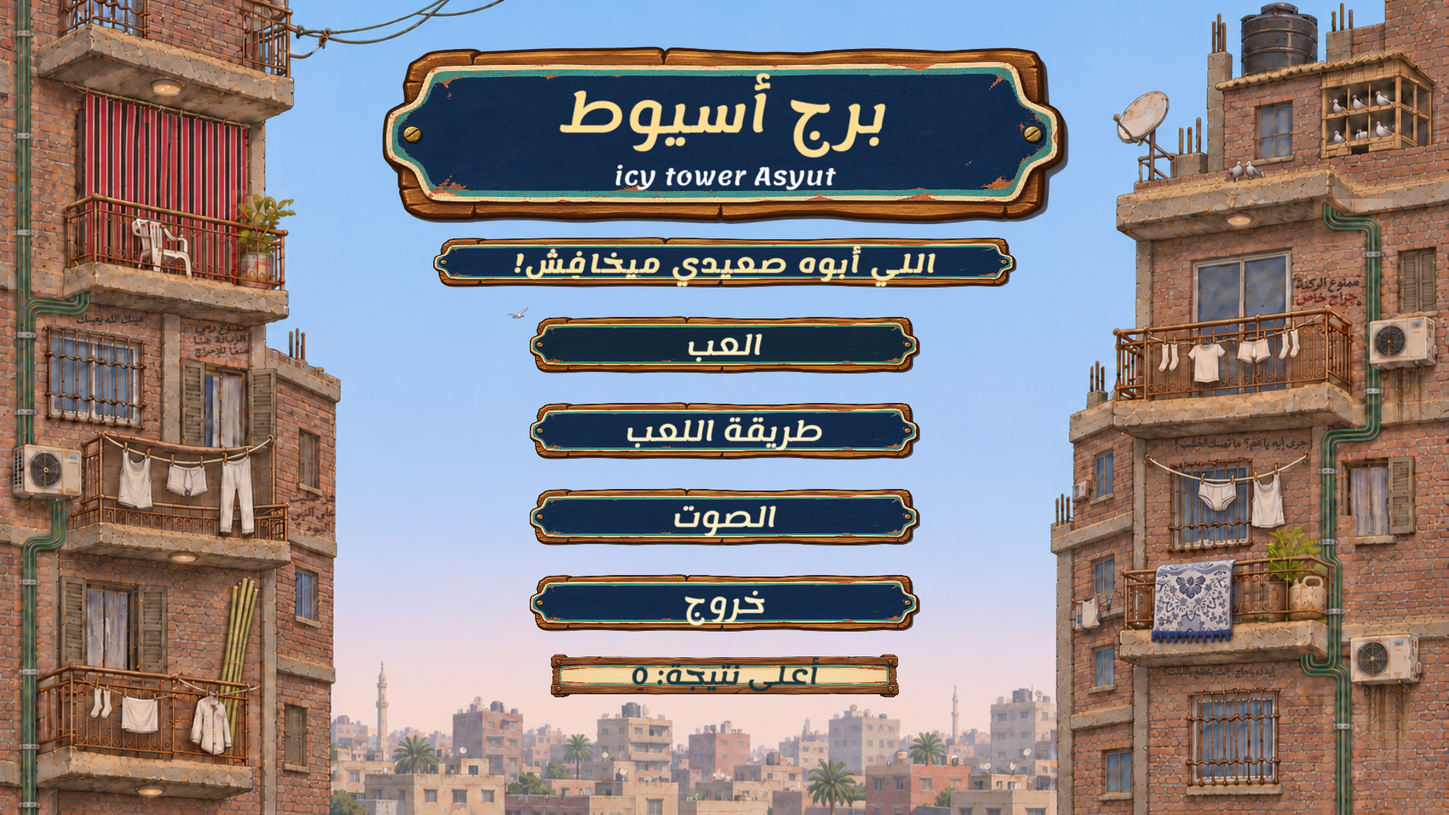
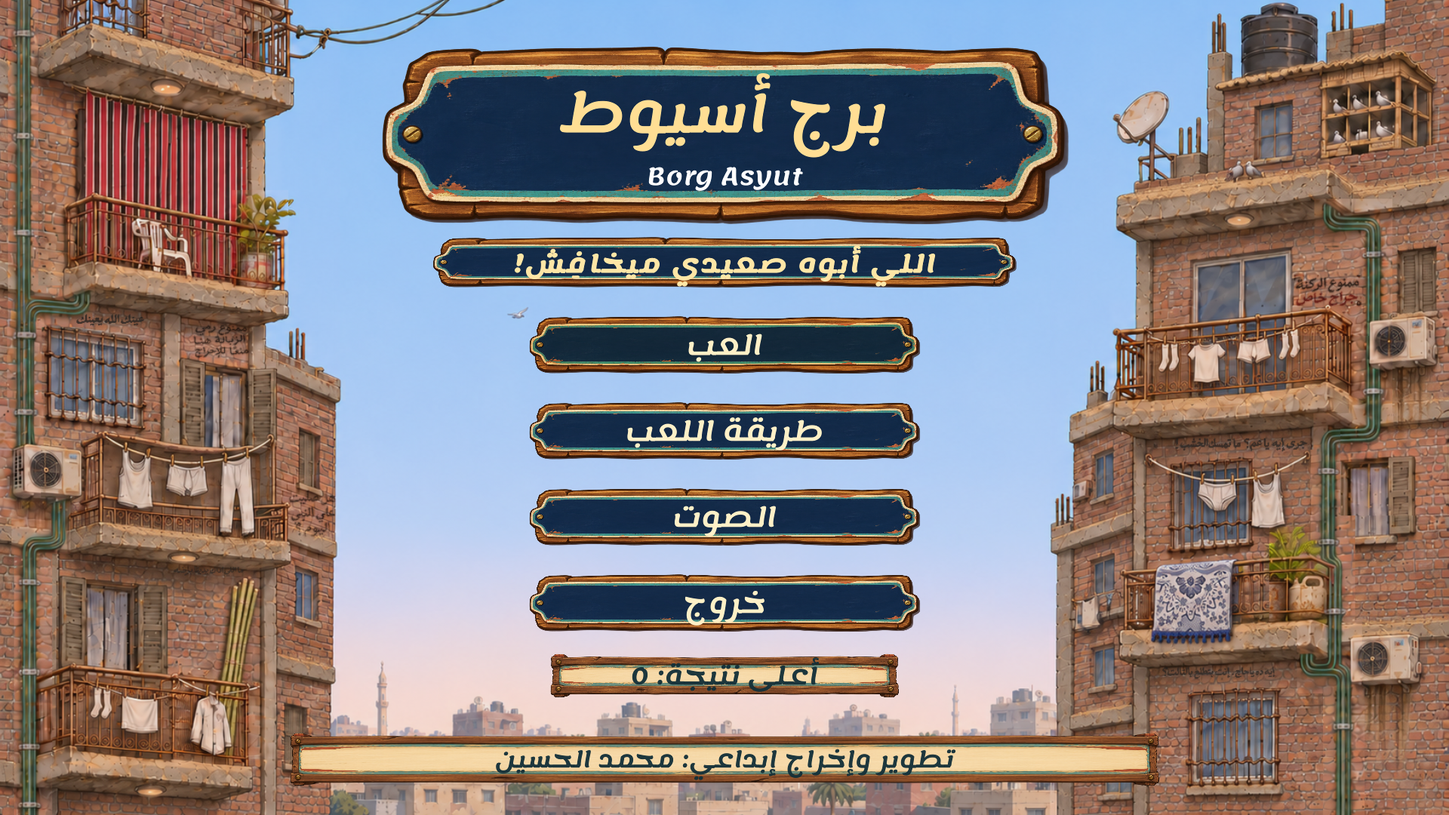
feat: prepare Borg Asyut independent release candidate

diff --git a/Assets/Ma3alem/Tests/PlayMode/GameplayTests.cs b/Assets/Ma3alem/Tests/PlayMode/GameplayTests.cs
@@ -289,7 +289,7 @@ namespace Ma3alem.Tests
             var canvas = GameObject.Find("Arabic interface");
             Assert.That(canvas.transform.Find("Menu rooftop ledge"), Is.Null);
             Assert.That(canvas.transform.Find("Egyptian menu rooftop"), Is.Null);
-            var buttons = canvas.GetComponentsInChildren<Button>();
+            var buttons = canvas.transform.Find("Menu buttons").GetComponentsInChildren<Button>();
             Assert.That(buttons.Length, Is.EqualTo(4));
             foreach (var button in buttons) Assert.That(button.GetComponent<Image>().sprite.name, Is.EqualTo("Button"));
             Assert.That(canvas.transform.Find("Assiut rooftop sign").GetComponent<Image>().sprite.name, Is.EqualTo("Button"));
@@ -306,13 +306,35 @@ namespace Ma3alem.Tests
             var back = canvas.GetComponentsInChildren<Button>()[0];
             UnityEngine.EventSystems.ExecuteEvents.Execute(back.gameObject, pointer, UnityEngine.EventSystems.ExecuteEvents.pointerClickHandler);
             yield return null; yield return null;
-            buttons = canvas.GetComponentsInChildren<Button>();
+            buttons = canvas.transform.Find("Menu buttons").GetComponentsInChildren<Button>();
             Assert.That(buttons.Length, Is.EqualTo(4));
             events.SetSelectedGameObject(buttons[0].gameObject);
             UnityEngine.EventSystems.ExecuteEvents.Execute(buttons[0].gameObject,
                 new UnityEngine.EventSystems.BaseEventData(events), UnityEngine.EventSystems.ExecuteEvents.submitHandler);
             yield return null; yield return null;
             Assert.That(Object.FindFirstObjectByType<GameManager>().State, Is.EqualTo(GameState.Running));
+        }
+        [UnityTest] public IEnumerator DeveloperCreditOpensRolesAndReturnsToMenu()
+        {
+            game.MainMenu(); yield return null; yield return null;
+            var canvas = GameObject.Find("Arabic interface");
+            var credit = GameObject.Find("Developer credit");
+            Assert.That(credit, Is.Not.Null);
+            var button = credit.transform.parent.GetComponent<Button>();
+            Assert.That(button, Is.Not.Null, "Creator credit must open the full credits.");
+            button.onClick.Invoke(); yield return null;
+            string captions = "";
+            foreach (var label in canvas.GetComponentsInChildren<TMPro.TextMeshProUGUI>()) captions += label.text + "\n";
+            foreach (string required in new[] { "Mohamad El Hussein", "Developer", "Game Creator", "Game Designer", "Programmer", "Creative Director", "Producer", "RTLTMPro" })
+                Assert.That(captions, Does.Contain(required));
+            Assert.That(captions, Does.Contain("Developer · Game Creator · Game Designer"));
+            Assert.That(captions, Does.Contain("Programmer · Creative Director & Producer"));
+            Assert.That(captions.ToLowerInvariant(), Does.Not.Contain("icy tower"));
+            var back = canvas.GetComponentsInChildren<Button>();
+            Assert.That(back.Length, Is.EqualTo(1));
+            back[0].onClick.Invoke(); yield return null;
+            Assert.That(canvas.transform.Find("Menu buttons"), Is.Not.Null);
+            Assert.That(Object.FindFirstObjectByType<GameManager>().State, Is.EqualTo(GameState.Menu));
         }
         [UnityTest] public IEnumerator CameraFallScore()
         {

diff --git a/Assets/Ma3alem/Scripts/Presentation/UIManager.cs b/Assets/Ma3alem/Scripts/Presentation/UIManager.cs
@@ -121,6 +121,15 @@ namespace Ma3alem
 
         private void SetText(TextMeshProUGUI label, string logicalText)
         {
+            bool containsArabic = false;
+            foreach (char character in logicalText)
+                if (character >= '\u0600' && character <= '\u06FF') { containsArabic = true; break; }
+            if (!containsArabic)
+            {
+                label.isRightToLeftText = false;
+                label.text = logicalText;
+                return;
+            }
             shaped.Clear();
             RTLSupport.FixRTL(logicalText, shaped, farsi: false, fixTextTags: false, preserveNumbers: true);
             // The shaper returns visual order; TMP must not reverse it a second time.
@@ -168,7 +177,7 @@ namespace Ma3alem
             var heading = Label(title, gameTitle, new Vector2(0, 20), 48);
             heading.rectTransform.sizeDelta = new Vector2(460, 82);
             heading.color = new Color(1, 0.87f, 0.58f);
-            var subtitle = Label(title, "icy tower Asyut", new Vector2(0, -36), 22);
+            var subtitle = Label(title, GameManager.OfficialTitle, new Vector2(0, -36), 22);
             subtitle.rectTransform.sizeDelta = new Vector2(400, 34); subtitle.color = Color.white;
             var sloganPlaque = Rect("Official slogan plaque", title, new Vector2(0, -112), new Vector2(520, 54));
             var plaqueImage = sloganPlaque.gameObject.AddComponent<Image>();
@@ -194,12 +203,27 @@ namespace Ma3alem
             var record = Panel(card.transform, new Vector2(0, -172), new Vector2(310, 40));
             Label(record.transform, $"أعلى نتيجة: {game.Scores.Best}", Vector2.zero, 22);
             var credit = Panel(root, new Vector2(0, -311), new Vector2(770, 48));
-            credit.raycastTarget = false;
+            var creditsButton = credit.gameObject.AddComponent<Button>();
+            creditsButton.onClick.AddListener(() => { sound.Click(); Credits(); });
             var creator = Label(credit.transform, "تطوير وإخراج إبداعي: محمد الحسين", Vector2.zero, 20);
             creator.name = "Developer credit";
             creator.rectTransform.sizeDelta = new Vector2(730, 44);
             creator.enableAutoSizing = true; creator.fontSizeMin = 14; creator.fontSizeMax = 20;
             Select(first);
+        }
+
+        private void Credits()
+        {
+            Clear();
+            var card = Panel(root, Vector2.zero, new Vector2(850, 600));
+            Label(card.transform, "فريق العمل", new Vector2(0, 232), 36).color = Gold;
+            Label(card.transform, "محمد الحسين", new Vector2(0, 158), 38);
+            Label(card.transform, "Mohamad El Hussein", new Vector2(0, 98), 30);
+            Label(card.transform, "Developer · Game Creator · Game Designer", new Vector2(0, 32), 22);
+            Label(card.transform, "Programmer · Creative Director & Producer", new Vector2(0, -12), 22);
+            Label(card.transform, "Unity · RTLTMPro · Lemonada · Noto", new Vector2(0, -88), 20);
+            Label(card.transform, "التراخيص وحقوق الأصول مرفقة مع اللعبة", new Vector2(0, -132), 20);
+            Select(Button(card.transform, "رجوع", -226, () => Show(game.State)));
         }
 
         private void Hud()

diff --git a/Assets/Ma3alem/Editor/StoreBuilds.cs b/Assets/Ma3alem/Editor/StoreBuilds.cs
@@ -17,10 +17,10 @@ namespace Ma3alem.Editor
 
         private static void Build(BuildTarget target)
         {
-            if (EditorUserBuildSettings.activeBuildTarget != target)
-                throw new InvalidOperationException("Switch the active build profile to " + target + " first.");
             if (!BuildPipeline.IsBuildTargetSupported(BuildPipeline.GetBuildTargetGroup(target), target))
                 throw new InvalidOperationException("Install Unity build support for " + target);
+            if (EditorUserBuildSettings.activeBuildTarget != target)
+                throw new InvalidOperationException("Switch the active build profile to " + target + " first.");
             var scenes = EditorBuildSettings.scenes.Where(s => s.enabled).Select(s => s.path).ToArray();
             var expected = new[] { "Assets/Ma3alem/Scenes/MainMenu.unity", "Assets/Ma3alem/Scenes/Gameplay.unity" };
             if (!scenes.SequenceEqual(expected))
@@ -35,11 +35,11 @@ namespace Ma3alem.Editor
             if (Directory.Exists(folder) && Directory.EnumerateFileSystemEntries(folder).Any())
                 throw new IOException("Output directory must be empty: " + folder);
             Directory.CreateDirectory(folder);
-            string destination = target == BuildTarget.WebGL ? folder : Path.Combine(folder, "icy tower Asyut.exe");
+            string destination = target == BuildTarget.WebGL ? folder : Path.Combine(folder, "Borg Asyut.exe");
             var compression = PlayerSettings.WebGL.compressionFormat;
             var fallback = PlayerSettings.WebGL.decompressionFallback;
-            var width = PlayerSettings.defaultScreenWidthWeb;
-            var height = PlayerSettings.defaultScreenHeightWeb;
+            var width = PlayerSettings.defaultWebScreenWidth;
+            var height = PlayerSettings.defaultWebScreenHeight;
             try
             {
                 if (target == BuildTarget.WebGL)
@@ -47,8 +47,8 @@ namespace Ma3alem.Editor
                     // Portable static hosting: do not depend on custom gzip response headers.
                     PlayerSettings.WebGL.compressionFormat = WebGLCompressionFormat.Gzip;
                     PlayerSettings.WebGL.decompressionFallback = true;
-                    PlayerSettings.defaultScreenWidthWeb = 1280;
-                    PlayerSettings.defaultScreenHeightWeb = 720;
+                    PlayerSettings.defaultWebScreenWidth = 1280;
+                    PlayerSettings.defaultWebScreenHeight = 720;
                 }
                 ProjectTools.ValidateMusicExclusion();
                 // Existing VoiceBuildRefresh preprocessor refreshes voice references and checks music.
@@ -66,8 +66,8 @@ namespace Ma3alem.Editor
                 {
                     PlayerSettings.WebGL.compressionFormat = compression;
                     PlayerSettings.WebGL.decompressionFallback = fallback;
-                    PlayerSettings.defaultScreenWidthWeb = width;
-                    PlayerSettings.defaultScreenHeightWeb = height;
+                    PlayerSettings.defaultWebScreenWidth = width;
+                    PlayerSettings.defaultWebScreenHeight = height;
                     AssetDatabase.SaveAssets();
                 }
             }

diff --git a/Assets/Ma3alem/Editor/ProjectTools.cs b/Assets/Ma3alem/Editor/ProjectTools.cs
@@ -249,10 +249,10 @@ namespace Ma3alem.Editor
         }
         [MenuItem("Ma3alem/Build NEW arcade Windows")]
         public static void BuildArcadeWindows()
-        { BuildAt(ArcadeFolder + "/Windows/icy tower Asyut.exe", true, false); }
+        { BuildAt(ArcadeFolder + "/Windows/Borg Asyut.exe", true, false); }
         [MenuItem("Ma3alem/Build NEW arcade authorized local preview")]
         public static void BuildArcadeLocalPreview()
-        { BuildLocalPreviewAt(ArcadeFolder + "/LocalPreview/icy tower Asyut.exe", true); }
+        { BuildLocalPreviewAt(ArcadeFolder + "/LocalPreview/Borg Asyut.exe", true); }
         static ProjectTools()
         {
             EditorApplication.delayCall += RebuildVoices;
@@ -591,16 +591,16 @@ namespace Ma3alem.Editor
         [MenuItem("Ma3alem/Build Windows x64")]
         public static void BuildWindows()
         {
-            BuildAt("Builds/Windows/icy tower Asyut.exe");
+            BuildAt("Builds/Windows/Borg Asyut.exe");
         }
 
         [MenuItem("Ma3alem/Build local preview with supplied music")]
         public static void BuildLocalPreview()
-        { BuildLocalPreviewAt("Builds/LocalPreview/icy tower Asyut.exe"); }
+        { BuildLocalPreviewAt("Builds/LocalPreview/Borg Asyut.exe"); }
 
         [MenuItem("Ma3alem/Build neighborhood local comparison")]
         public static void BuildNeighborhoodLocalPreview()
-        { BuildLocalPreviewAt("Builds/NeighborhoodLocal/icy tower Asyut.exe"); }
+        { BuildLocalPreviewAt("Builds/NeighborhoodLocal/Borg Asyut.exe"); }
 
         private static void BuildLocalPreviewAt(string output, bool reviewDriver = false)
         {
@@ -626,7 +626,7 @@ namespace Ma3alem.Editor
         public static void BuildVerificationWindows()
         {
             string company = PlayerSettings.companyName;
-            try { BuildAt("Builds/Verification/icy tower Asyut.exe", true); }
+            try { BuildAt("Builds/Verification/Borg Asyut.exe", true); }
             finally { PlayerSettings.companyName = company; AssetDatabase.SaveAssets(); }
         }
 

diff --git a/Tools/test_package_store.py b/Tools/test_package_store.py
@@ -17,15 +17,15 @@ class StorePackagingTests(unittest.TestCase):
     def test_windows(self):
         src = self.root / "Windows"
         src.mkdir()
-        for name in ("icy tower Asyut.exe", "UnityPlayer.dll", "debug.pdb"):
+        for name in ("Borg Asyut.exe", "UnityPlayer.dll", "debug.pdb"):
             (src / name).write_bytes(b"fixture")
-        data = src / "icy tower Asyut_Data"
+        data = src / "Borg Asyut_Data"
         data.mkdir()
         (data / "globalgamemanagers").write_bytes(b"fixture")
         output = self.root / "Windows.zip"
         package("windows", src, output, self.root)
         with zipfile.ZipFile(output) as z:
-            self.assertIn("icy tower Asyut.exe", z.namelist())
+            self.assertIn("Borg Asyut.exe", z.namelist())
             self.assertIn("Third_Party_Notices/CREDITS.md", z.namelist())
             self.assertNotIn("debug.pdb", z.namelist())
         self.assertTrue(output.with_suffix(".zip.sha256").is_file())
@@ -50,6 +50,16 @@ class StorePackagingTests(unittest.TestCase):
             package("web", src, self.root / "bad.zip", self.root)
         with self.assertRaises(ValueError):
             package("windows", src, self.root / "bad.zip", self.root)
+
+    def test_rejects_unknown_platform(self):
+        src = self.root / "Web"
+        build = src / "Build"
+        build.mkdir(parents=True)
+        (src / "index.html").write_text("fixture")
+        for suffix in (".loader.js", ".framework.js", ".wasm", ".data"):
+            (build / ("Web" + suffix)).write_bytes(b"fixture")
+        with self.assertRaisesRegex(ValueError, "platform"):
+            package("android", src, self.root / "bad.zip", self.root)
 
 if __name__ == "__main__":
     unittest.main()

diff --git a/Tools/LogicChecks/Program.cs b/Tools/LogicChecks/Program.cs
@@ -7,6 +7,13 @@ using Microsoft.CodeAnalysis.CSharp.Syntax;
 string root = Path.GetFullPath(args[0]);
 var sources = new List<SyntaxTree>();
 var options = new CSharpParseOptions(LanguageVersion.CSharp9);
+// Only these two scalar Unity helpers are needed by the extracted difficulty rule.
+// This adapter does not validate Unity's engine, rendering or physics.
+sources.Add(CSharpSyntaxTree.ParseText(@"
+internal static class Mathf {
+    public static float Lerp(float a, float b, float t) => a + (b - a) * System.Math.Clamp(t, 0f, 1f);
+    public static float InverseLerp(float a, float b, float value) => a == b ? 0f : System.Math.Clamp((value - a) / (b - a), 0f, 1f);
+}", options));
 var targets = new Dictionary<string, string[]> {
     ["PlayerController"] = new[] { "JumpTiming" }, ["ScoreManager"] = new[] { "HeightTracker", "FloorCombo" },
     ["PlatformSpawner"] = new[] { "Difficulty", "Placement", "Route" }, ["AudioManager"] = new[] { "VoiceCue", "VoicePolicy" }

diff --git a/Tools/package_store.py b/Tools/package_store.py
@@ -15,11 +15,13 @@ NOTICES = {
 }
 
 def package(platform, source, output, root=ROOT):
+    if platform not in {"windows", "web"}:
+        raise ValueError("Unsupported platform: " + platform)
     source, output = source.resolve(), output.resolve()
     if not source.is_dir() or source == output or source in output.parents:
         raise ValueError("Use an existing build folder and an output ZIP outside it.")
     if platform == "windows":
-        exe = source / "icy tower Asyut.exe"
+        exe = source / "Borg Asyut.exe"
         if not exe.is_file() or not (source / (exe.stem + "_Data")).is_dir() or not (source / "UnityPlayer.dll").is_file():
             raise ValueError("Incomplete Windows player: exe, matching Data directory and UnityPlayer.dll required.")
     else:

diff --git a/Tools/validate_project.py b/Tools/validate_project.py
@@ -79,7 +79,8 @@ for name in ('MainMenu', 'Gameplay'):
 
 for path in ROOT.glob('*.md'):
     for target in re.findall(r'\]\(([^)]+)\)', path.read_text(encoding='utf8')):
-        if '://' not in target and not (path.parent / target.split('#')[0]).exists():
+        from urllib.parse import unquote
+        if '://' not in target and not (path.parent / unquote(target.split('#')[0])).exists():
             issues.append('Broken document link in ' + path.name + ': ' + target)
 
 voice_path = assets / 'Audio/VoiceLines'

diff --git a/Assets/Ma3alem/Scripts/Core/GameManager.cs b/Assets/Ma3alem/Scripts/Core/GameManager.cs
@@ -19,7 +19,7 @@ namespace Ma3alem
         public GameState State { get; private set; }
         public bool IsRunning => State == GameState.Running;
         public ScoreManager Scores => scores;
-        public const string OfficialTitle = "برج أسيوط (icy tower Asyut)";
+        public const string OfficialTitle = "Borg Asyut";
         public CameraFollow Follow => cameraFollow;
         public PlayerController Player => player;
         public float[] ZoneStarts => zoneStarts;

diff --git a/Publishing/STORE_LAUNCH.md b/Publishing/STORE_LAUNCH.md
@@ -1,33 +1,21 @@
-# Borg Asyut — release workflow
+# Borg Asyut — private release workflow
 
-Creator: محمد الحسين / Mohamad El Hussein. This is a source-level preparation, not an already validated new game build. Existing Windows ZIP and promotional media predate the updated credit.
+Developer: Mohamad El Hussein — محمد الحسين.
+Game Creator, Game Designer, Programmer, Creative Director & Producer.
 
-## One-command build (Windows)
-1. Use a clean Git clone with Git LFS, Python 3.11+ and Unity Hub editor 6000.3.2f1, including Windows and Web Build Support. Disable Development Build in Unity; close the editor.
-2. In PowerShell run:
+Use a clean Git/LFS checkout, Python 3.11+ and a supported patched Unity 6000.3 LTS editor with Windows and Web Build Support. The installed 6000.3.2f1 can produce a private review candidate, but predates security fixes linked in [platform requirements](PLATFORM_REQUIREMENTS.md).
 
-```powershell
-git pull --ff-only
-git lfs pull
-powershell -NoProfile -ExecutionPolicy Bypass -File Tools/build_store.ps1 -Target Both
-```
+With Unity closed, run Tools/build_store.ps1 in PowerShell, selecting -Target Both and -Unity followed by the actual patched Unity.exe path. The script validates Git/LFS cleanliness, runs packaging tests and Unity EditMode/PlayMode with XML reports, builds requested targets and creates ZIPs/checksums under timestamped Artifacts/Store-* directories. Missing support or failed checks stop the workflow. Actual editor version is recorded from the executable.
 
-Use `-Target Windows` or `-Target Web` independently; pass `-Unity "C:\path\Unity.exe"` if needed. The script makes a new timestamped build directory, validates LFS, runs packaging unit tests, builds target(s), produces ZIPs, hashes, build logs and source commit in Artifacts/Store-*. ExecutionPolicy applies only to the subprocess; review the script before running it.
-
-Alternatively switch Unity Build Profiles to the intended target and choose Ma3alem > Store Release > Build Windows x64 / Build WebGL. Output is Builds/Store unless BORG_STORE_OUTPUT is provided. Use empty output directories. Package with:
+For existing fresh players:
 
 ```
 python Tools/package_store.py windows Builds/Store/Windows Artifacts/Borg_Asyut_Windows.zip
 python Tools/package_store.py web Builds/Store/Web Artifacts/Borg_Asyut_Web.zip
 ```
 
-ZIPs include credits and license notices. Web index.html is at archive root. Do not upload source, checksums or logs as playable games. Check [LAUNCH_GATE.md](LAUNCH_GATE.md) first. Preview Web on HTTP, not file:// (python -m http.server 8000 --directory <web-folder>). The generic Web build is not a portal SDK integration.
+Windows requires Borg Asyut.exe, matching Borg Asyut_Data and UnityPlayer.dll. Web requires root index.html and complete Build components. Notices are included; debug symbols/logs excluded. Fixture packaging tests are not player tests.
 
-## Upload order
-- itch.io: https://itch.io/game/new — first downloadable Windows; then HTML project with Web ZIP marked playable in browser and Windows separately downloadable. Start with 1280x720 embed; test fullscreen. https://itch.io/docs/creators/html5 and https://itch.io/docs/creators/getting-started
-- Game Jolt: https://gamejolt.com/ — game page, separate Windows and HTML5 builds, publish only after preview and rating.
-- CrazyGames: https://developer.crazygames.com/ — initial download <= 50 MB for basic launch; measure actual network transfer; full launch requires SDK. Read https://docs.crazygames.com/requirements/intro/ and https://docs.crazygames.com/requirements/game-covers/
-- Poki: https://developers.poki.com/guide/share — review before integration. Read https://developers.poki.com/guide/requirements-quality and https://developers.poki.com/guide/revenue-deal-types before agreeing to any exclusivity.
-- Steam: https://partner.steamgames.com/steamdirect — optional later.
+Before upload review [verification](VERIFICATION.md), [rights/privacy](RIGHTS_PRIVACY_REVIEW.md) and [launch gate](LAUNCH_GATE.md). Preview Web over HTTP and on the actual portal; verify audio unlock, focus, Escape, restart, fullscreen, persistence, download size, memory and console errors. Generic WebGL is not proof of Poki integration or mobile support.
 
-See [store copy](STORE_COPY.md) and [media plan](MEDIA_PLAN.md). Proposed price: free/optional donations on itch.io, subject to creator approval. The old academic PDF is still attached to the existing GitHub Release: remove that asset through the GitHub web UI. Do not delete playable Windows ZIP before its tested replacement is available. New builds and public store pages have not been created by the source update.
+The academic PDF was removed from the old GitHub Release on 2026-11-28 after a checksum-verified private backup. Its playable Windows ZIP was retained. No new public release or storefront listing is approved.

diff --git a/Publishing/PLATFORM_REQUIREMENTS.md b/Publishing/PLATFORM_REQUIREMENTS.md
@@ -1,0 +1,39 @@
+# Submission requirements checked 2026-11-28
+
+These are private preparation notes, not platform approval. Recheck the signed-in submission form before upload. No account terms, prices, exclusivity or fees were approved for storefronts.
+
+## itch.io
+
+Prepare Windows ZIP and a separate playable HTML ZIP with index.html at archive root, relative case-sensitive paths and all dependencies bundled. The documented HTML limits are 1,000 files, 500 MB extracted total, 200 MB per file and 240-character paths. Cover: 630×500 (315:250 ratio). Test click-to-play, sound and fullscreen in the draft preview. Payment choice remains owner-controlled.
+
+Sources: https://itch.io/docs/creators/html5 and https://itch.io/docs/creators/getting-started
+
+## Game Jolt
+
+Prepare separate downloadable Windows and HTML5 packages, description, controls, real screenshots and maturity answers. The official add-game page was reachable but not text-readable during research; current upload limits and artwork dimensions could not be independently verified. The kit contains proposed 1280×720 thumbnail and 2000×500 header exports; these are not represented as verified mandatory dimensions. Confirm inside the upload form before submitting.
+
+Source: https://gamejolt.com/help-docs/creators/add-game
+
+## CrazyGames
+
+Prepare 1920×1080 landscape, 800×1200 portrait and 800×800 square covers. Title only on covers; no developer slogan, border or store logos. Silent preview videos: landscape 1080p and portrait 2:3, 15–20 seconds, at most 50 MB, no cursor, black bars, fast-forward or promotional text. Start with the corresponding static cover. Basic launch can omit SDK and monetization; full launch requires integration. Without SDK, total file size must be at most 50 MB; mobile-homepage eligibility is tighter. Measure actual browser download and memory after WebGL build. Current keyboard-only game is not advertised as mobile compatible.
+
+Sources: https://docs.crazygames.com/requirements/game-covers/ and https://docs.crazygames.com/requirements/technical/ and https://docs.crazygames.com/requirements/intro/
+
+## Poki
+
+Requires desktop, mobile and tablet support, proportional 16:9 canvas, offline-bundled dependencies and restricted external requests. Current keyboard-only game needs a separately tested touch-control implementation before acceptance can be claimed. Integrate lifecycle events and verify with Poki Inspector after partnership review; do not add external advertising. Static thumbnail is text-free. Animated thumbnail: square at least 1080×1080, at least 50 fps, 4–6 seconds, muted MP4, at most 100 MB. No Poki SDK, partnership or exclusivity acceptance is claimed.
+
+Sources: https://developers.poki.com/guide/requirements-quality and https://developers.poki.com/guide/your-game-page and https://developers.poki.com/guide/game-thumbnail
+
+## Steam
+
+Prepared store capsules: header 920×430, small 462×174, main 1232×706 and vertical 748×896. Library capsule 600×900, hero 3840×1240, header 920×430; logo fits within 1280×720. Shortcut icon 256×256, app icon 184×184. Use only title and real game artwork in capsules; creator roles belong in listing/credits/trailer. Gameplay screenshots should be at least 1920×1080, 16:9. AppID, SteamPipe depot configuration, Steam Direct fee, tax/bank onboarding and store/build review remain account-level steps. Do not invent an AppID or pay fees. Complete content survey, including generated-content disclosure if applicable, before review; no ESRB/PEGI certificate is claimed.
+
+Sources: https://partner.steamgames.com/doc/store/assets and https://partner.steamgames.com/doc/gettingstarted/contentsurvey and https://partner.steamgames.com/steamdirect
+
+## Unity security gate
+
+The installed 6000.3.2f1 predates the first 6000.3 LTS fixes (6000.3.27f2) listed for Unity's October 2026 security advisories. Use a supported patched 6000.3 LTS editor and matching WebGL module, rerun checks and rebuild both players before official publication. The present candidate is for private review only. No claim is made that this game's specific code exercises the vulnerable APIs.
+
+Sources: https://activation.unity3d.com/security/unity-emudhra-compromise and https://activation.unity3d.com/security/unity-brotli-decoder-vulnerability

diff --git a/Publishing/VERIFICATION.md b/Publishing/VERIFICATION.md
@@ -1,0 +1,34 @@
+# Verification — 2026-11-28
+
+Source baseline: b2e269c (main at checkout). This preparation is a private release candidate, not an approved public release.
+
+| Check | Actual result |
+|---|---|
+| Git LFS integrity | Passed: git lfs fsck |
+| Python archive tests | 4 passed, 0 failed; includes Borg Asyut Windows filename and unsupported-platform rejection |
+| .NET 10 extracted production logic | 6 passed, 0 failed; actual RTLTMPro source and nested rules, scalar Mathf adapter; not engine/physics validation |
+| Unity 6000.3.2f1 EditMode | 23 passed, 0 failed, 0 skipped |
+| Unity 6000.3.2f1 PlayMode after Latin shaping fix | 40 passed, 0 failed, 14 skipped; skipped cases listed in XML; not executed tests |
+| Windows x64 candidate build | Built successfully; fresh final candidate and exact receipts are in private Publishing_Ready evidence |
+| Native Windows interaction | Player launched; actual menu, Credits, start and Escape pause inspected using Windows input and screen captures |
+| Separate native verification build | 120-second run, 196 jumps/landings, floor 201, all four zones, zero logged errors; 28 pooled platforms; preferences restored. Mean 59.99 FPS and p95 16.67 ms on this machine under concurrent tool activity; not a hardware guarantee. No wall-bounce or flip occurred in this automated route; PlayMode covers those separately. A second 10-second 1920×1080 run also completed without errors. |
+| WebGL | Not built or browser-tested: Web Build Support absent; disk capacity prevents installing complete patched toolchain |
+| Network traffic / human listening / clean second PC | Not performed; no passing result claimed |
+
+Commands executed from repository root:
+
+```
+python -B -m unittest discover -s Tools -v
+python -B Tools/validate_project.py
+dotnet run --project Tools/LogicChecks/LogicChecks.csproj -- .
+```
+
+Unity tests use the installed editor's `-batchmode -projectPath <repo> -runTests -testPlatform EditMode` / `PlayMode`, with separate XML and log output. Test runs omit `-quit` because Unity Test Runner exits after reporting. Full logs and reports are retained privately; public docs do not expose local machine paths or identifiers.
+
+Reproduced and fixed: store builder referenced nonexistent PlayerSettings APIs; metadata validator lacked its package-reference manifest and mishandled URL-encoded links; pure-logic runner lacked scalar Mathf helpers; English credit lines were reordered by Arabic shaping. The exact-line Credits regression was observed failing before the shaping fix. Menu interaction checks now scope gameplay buttons separately from the new Credits control.
+
+Preserved: eight runtime source files, scene/prefab GUIDs, game physics, four floor ranges, supplied art, original voice bytes and approved music bytes. No new gameplay system or production dependency was added. Product rename changes Unity preferences namespace; migration of legacy scores/settings is not claimed.
+
+Official release blockers: patched Unity editor (see PLATFORM_REQUIREMENTS.md), WebGL toolchain/build/browser QA, verified rights evidence and store content questionnaires, account-level submissions and owner publication approval. Old playable GitHub release remains available.
+
+The native verification build includes an opt-in driver under ASYUT_VERIFY. It is separate from the distributable candidate; do not distribute the verification executable. Exact assembly receipts and absence of the driver from the packaged candidate are recorded in private evidence.
